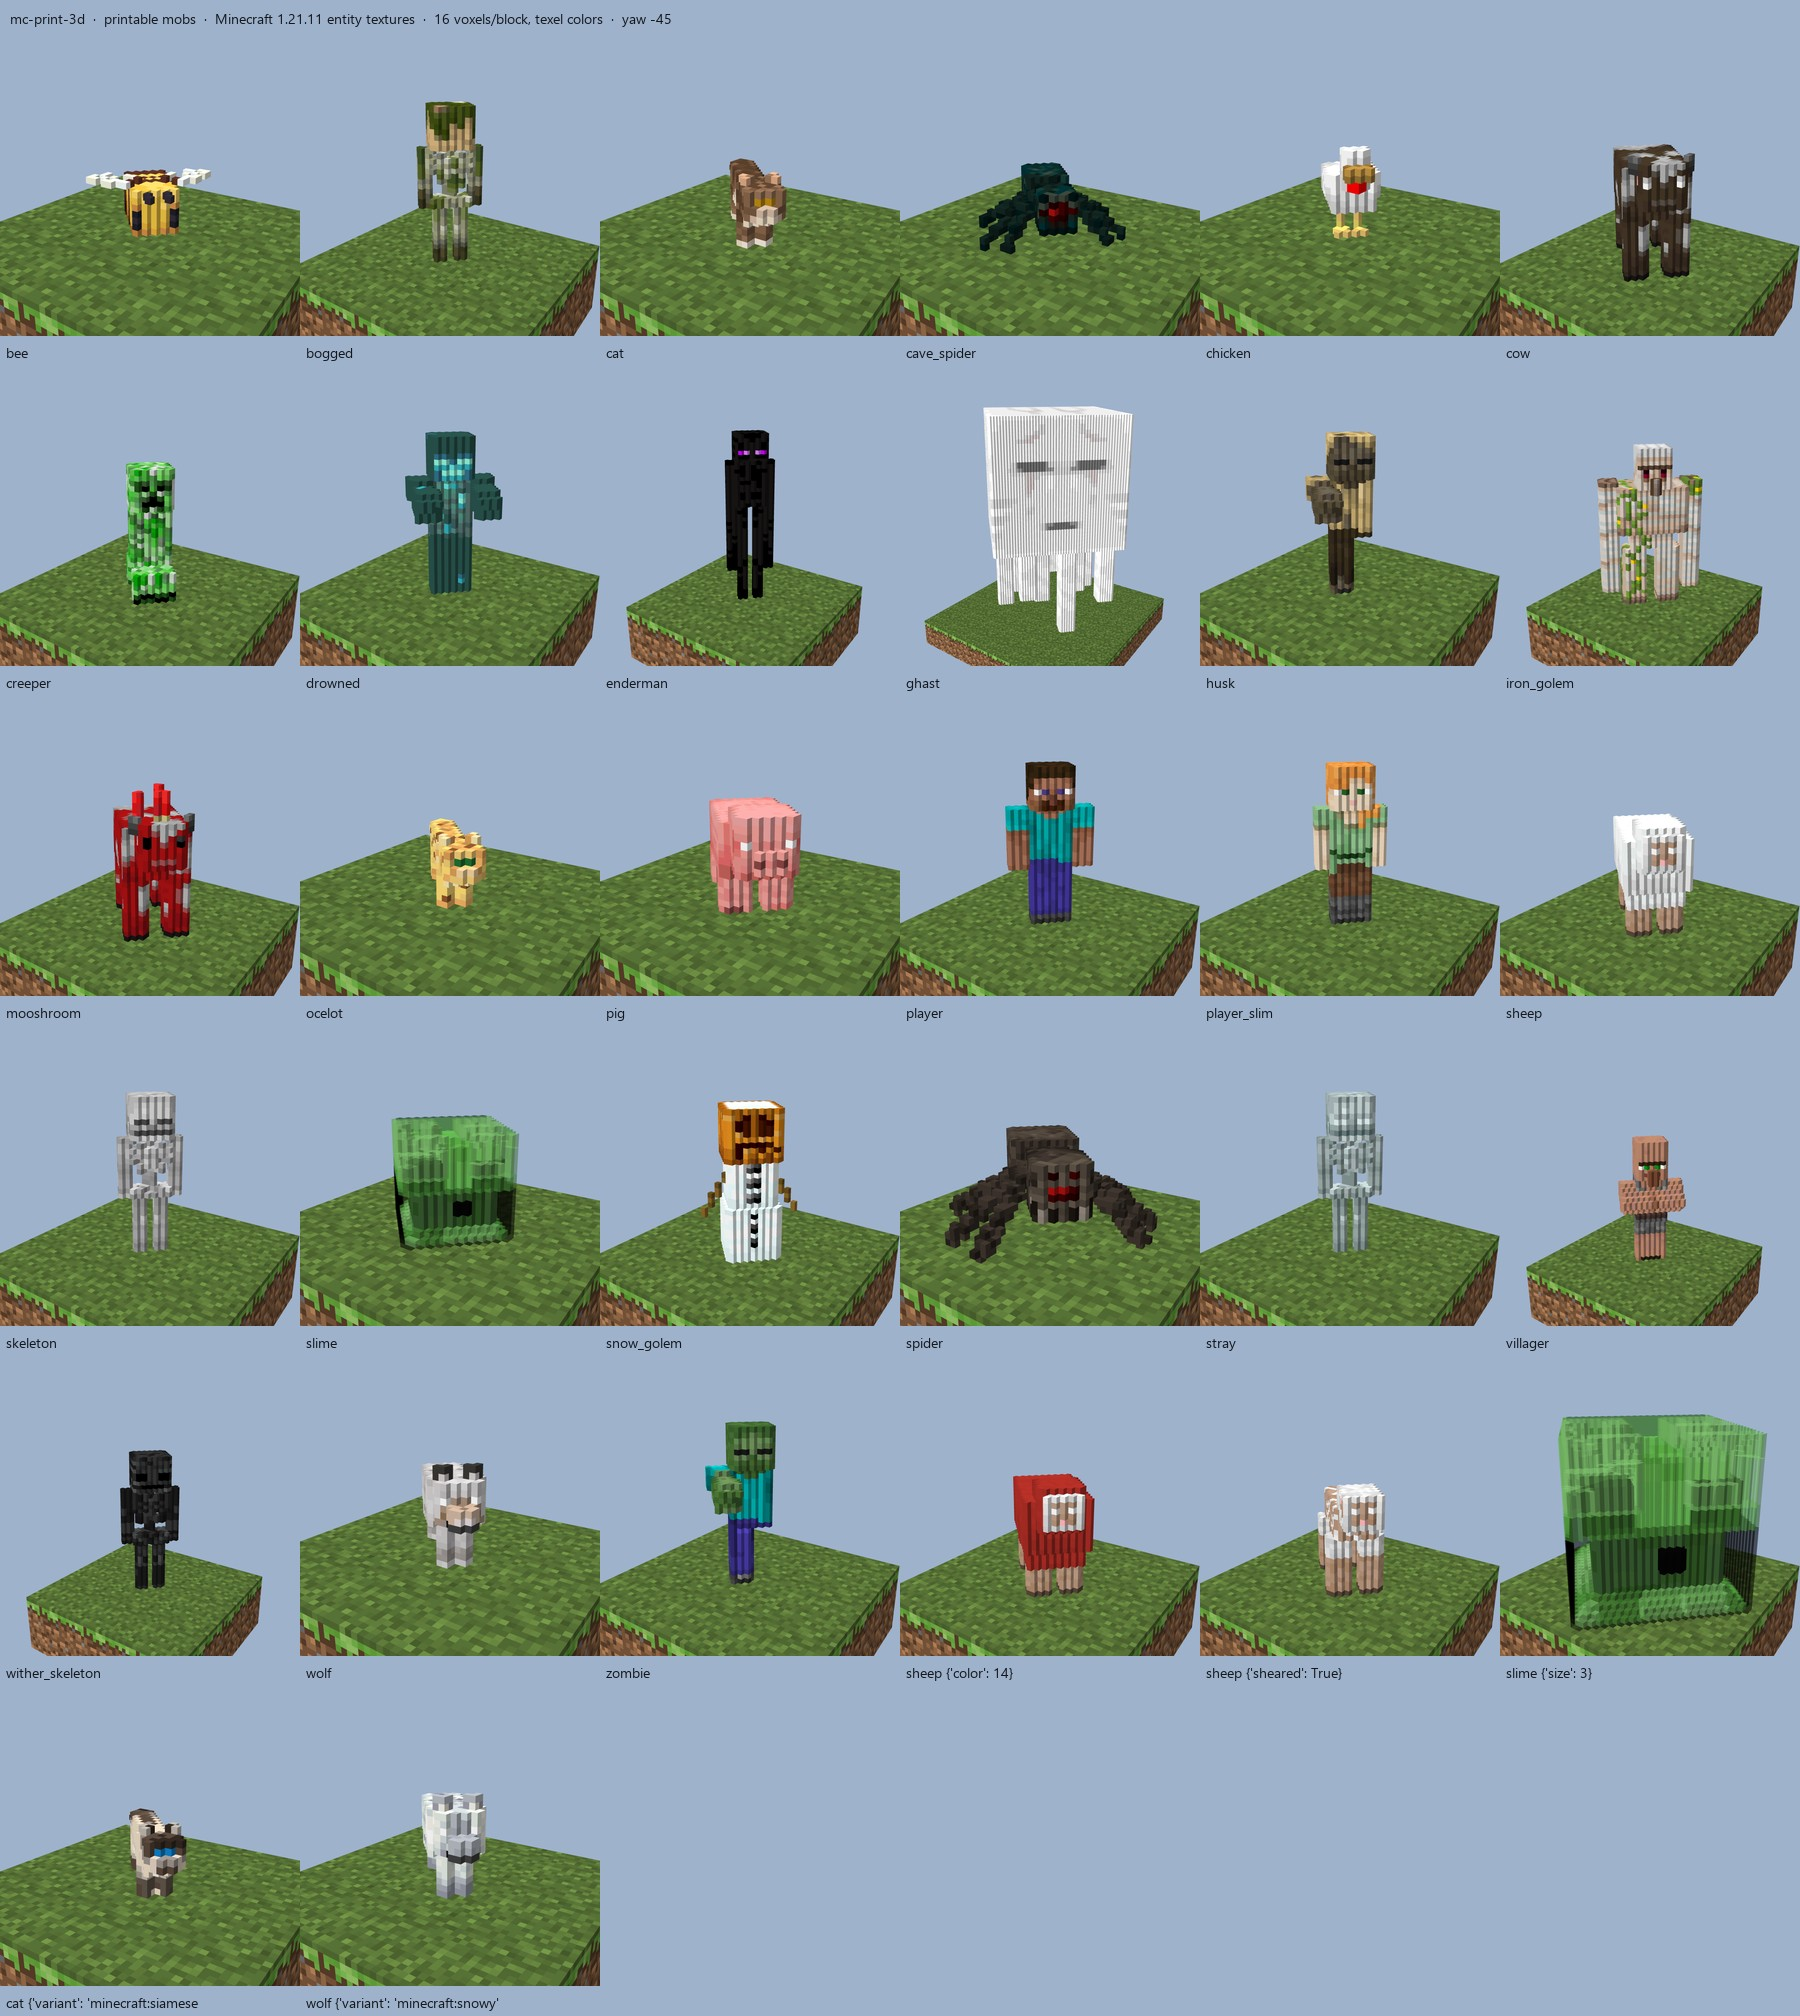
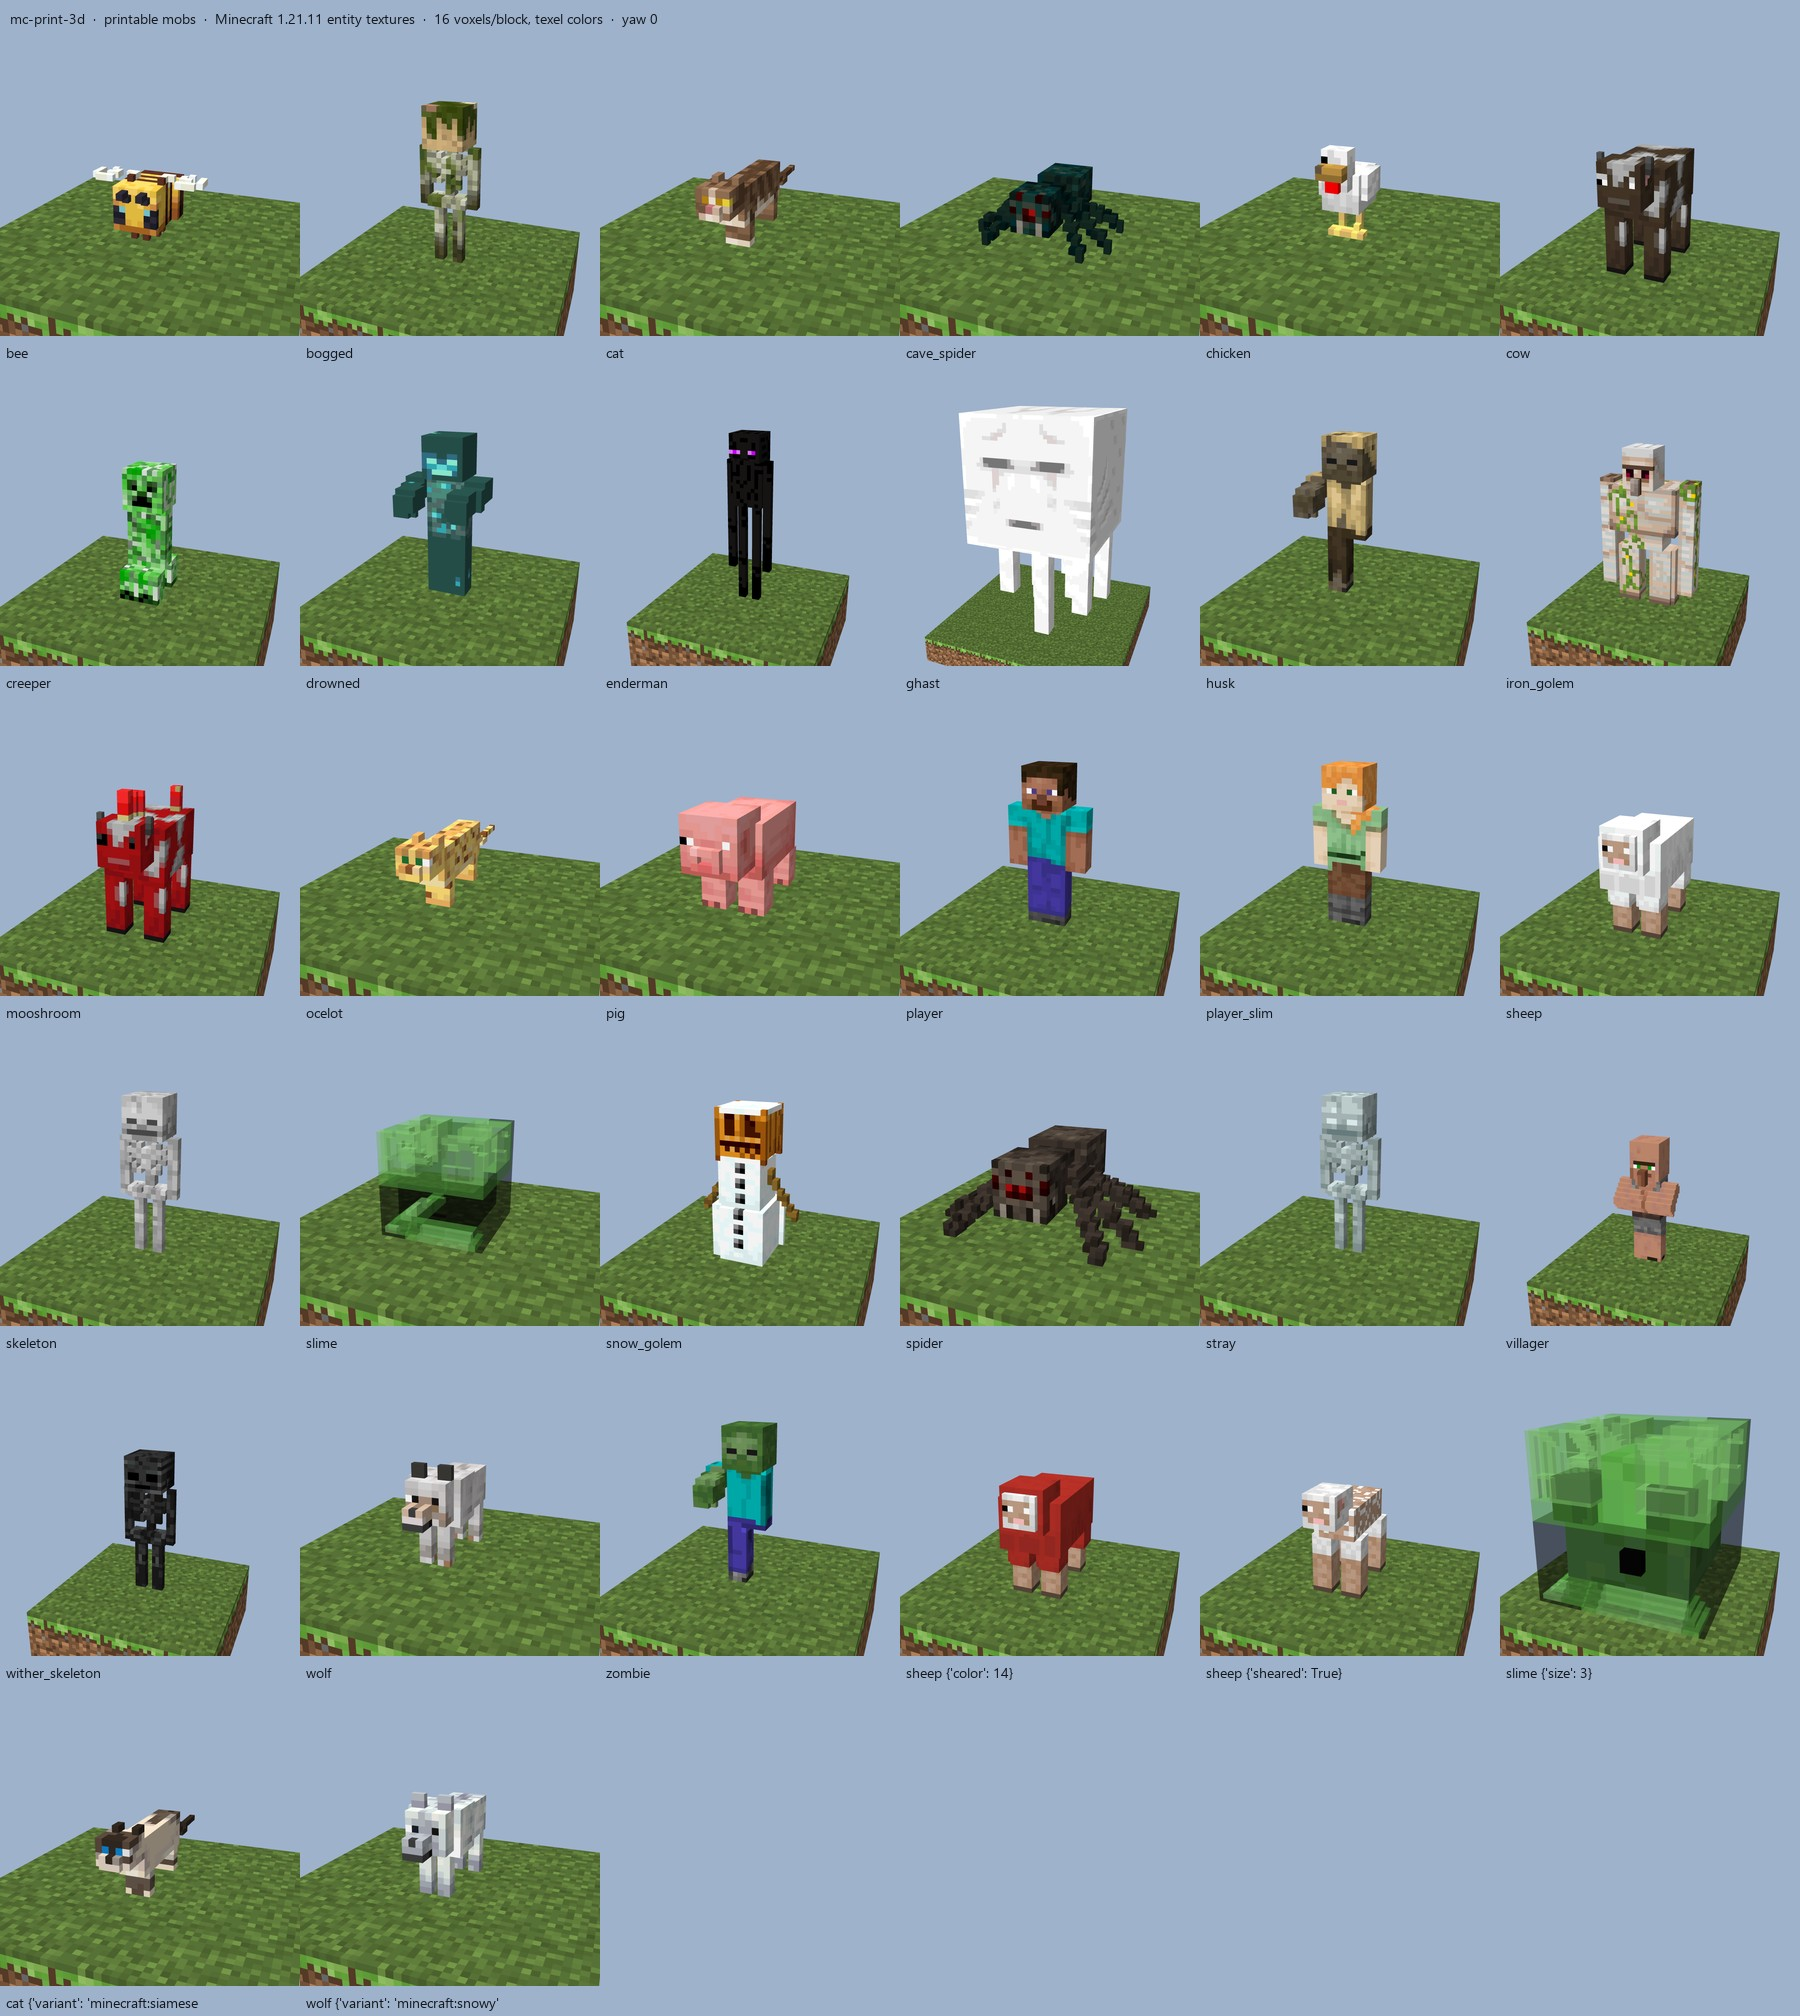
mobs: snap entity yaw to 90 degrees by default (grid-aligned figures print clean); docs sheet faces the camera
A mob turned 37 degrees is voxelized as stair-steps on every face; the default now turns entities to the
nearest quarter turn. --mob-free-yaw / the checkbox in the app keep exact rotations.

diff --git a/mcprint/cli.py b/mcprint/cli.py
@@ -49,6 +49,7 @@ def _add_convert_args(p: argparse.ArgumentParser) -> None:
     g.add_argument("--mob", action="append", default=[], metavar="ID@X,Y,Z[,YAW]",
                    help="place a mob, e.g. creeper@3,1,4 or sheep@2,1,2,90 (block coords, feet centre; repeatable; see 'mcprint mobs')")
     g.add_argument("--mob-scale", type=float, help="scale every mob (1 = game size)")
+    g.add_argument("--mob-free-yaw", action="store_true", help="keep exact entity rotations instead of snapping mobs to 90 degree turns")
     g.add_argument("--skin", help="player skin PNG (64x64) used for 'player' / 'player_slim' mobs")
     g = p.add_argument_group("modular kit")
     g.add_argument("--kit", action="store_true", help="build a modular kit: pieces with studs/sockets, print plates, baseplate and assembly guide")
@@ -115,6 +116,8 @@ def _settings_from_args(a: argparse.Namespace) -> ConversionSettings:
         s.extra_mobs = [_parse_mob_spec(spec) for spec in a.mob]
     if a.mob_scale:
         s.mob_scale = max(0.05, a.mob_scale)
+    if a.mob_free_yaw:
+        s.mob_snap_yaw = False
     if a.skin:
         s.player_skin = a.skin
     if a.kit:

diff --git a/mcprint/gui/main_window.py b/mcprint/gui/main_window.py
@@ -175,6 +175,9 @@ class MainWindow(QMainWindow):
         self.include_mobs.setChecked(self.settings.include_mobs)
         self.include_mobs.toggled.connect(lambda _v: self._mobs_changed())
         ml.addWidget(self.include_mobs)
+        self.mob_snap = QCheckBox("Turn mobs to the nearest 90° (clean faces; off keeps exact rotations)")
+        self.mob_snap.setChecked(self.settings.mob_snap_yaw)
+        ml.addWidget(self.mob_snap)
         self.entity_label = QLabel("No mobs in the loaded schematic.")
         self.entity_label.setWordWrap(True)
         ml.addWidget(self.entity_label)
@@ -771,6 +774,7 @@ class MainWindow(QMainWindow):
         s.include_mobs = self.include_mobs.isChecked()
         s.extra_mobs = [self.mob_list.item(i).data(Qt.UserRole) for i in range(self.mob_list.count())]
         s.mob_scale = self.mob_scale.value()
+        s.mob_snap_yaw = self.mob_snap.isChecked()
         s.solid_textures = [t.strip() for t in self.solid_tex.text().split(",") if t.strip()]
         s.color_mode = self.color_mode.currentData() or "block"
         s.max_colors = self.max_colors.value()

diff --git a/mcprint/settings.py b/mcprint/settings.py
@@ -52,6 +52,7 @@ class ConversionSettings:
     include_mobs: bool = True                 # print mobs stored in the schematic (entities)
     extra_mobs: list[dict] = field(default_factory=list)   # [{id, x, y, z, yaw, props}] placed by the user
     mob_scale: float = 1.0                    # extra scale for every mob (1 = game size)
+    mob_snap_yaw: bool = True                 # turn mobs to the nearest 90 deg so their boxes align with the voxel grid
     player_skin: str = ""                     # PNG used for 'player' mobs (64x64 skin); empty = Steve
     # ---- colors -----------------------------------------------------------------------
     color_mode: str = "block"                 # 'block' (flat color per block type) | 'texel' (per texture pixel) | 'single'

diff --git a/mcprint/pipeline.py b/mcprint/pipeline.py
@@ -271,6 +271,8 @@ class Converter:
                 key = normalize_mob_id(mid)
                 skipped[key] = skipped.get(key, 0) + 1
                 continue
+            if s.mob_snap_yaw:
+                yaw = float(round(yaw / 90.0) * 90 % 360)
             out.append(MobPlacement(model, x, y, z, yaw, scale=float(s.mob_scale or 1.0), name=str(props.get("name", ""))))
         for key, n in sorted(skipped.items()):
             self.warnings.append(f"{n} x {key}: no printable model for this entity type, skipped")

diff --git a/README.md b/README.md
@@ -135,6 +135,7 @@ Mobs are built the way the game builds them: every `ModelPart` box with its `tex
 - **From the schematic.** Entities are read from Sponge v2/v3, Litematica regions, structure files, MCEdit (`WEOrigin` aware) and `.mcstructure`. Position, yaw, sheep `Color`/`Sheared`, slime `Size` and `variant` tags are used; unsupported entity types (item frames, minecarts, mobs without a model yet) are listed as warnings.
 - **Placed by hand.** `--mob ID@X,Y,Z[,YAW]` in block coordinates (feet centre, relative to the schematic), repeatable; `sheep:red@…`, `slime:3@…`, `pig:cold@…`, `wolf:snowy@…`, `cat:siamese@…` pick variants; `--skin steve.png` uses your own 64×64 skin for `player` / `player_slim`; `--mob-scale 2` makes every mob twice the size; `--no-mobs` ignores schematic entities. The app has the same controls on the Schematic tab.
 - **Kit mode.** A mob is one piece: all of its cells as a single body on a base tile with a socket under every ground cell (no studs on a head). Figures print in their dominant color; use the solid build for full-color mobs.
+- **Rotation.** Entity yaws are snapped to the nearest 90° by default so a figure's boxes align with the voxel grid; a mob turned 37° would print as stair-steps on every face. `--mob-free-yaw` (or the checkbox in the app) keeps the exact rotation.
 - **Detail.** Mobs share the block resolution (16 sub-voxels per block by default), so a 4-unit-wide arm is 4 voxels wide and tilted parts (villager arms, spider legs, wolf tail) come out stair-stepped like any diagonal in a voxel model. Set *resolution* to 32 in the Model tab or pass `--resolution 32` for finer figures at the cost of larger meshes.
 
 ```bash
